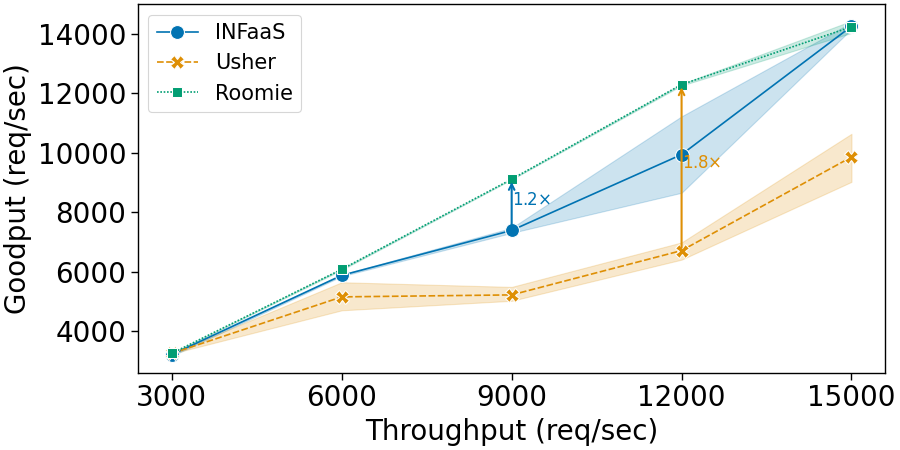
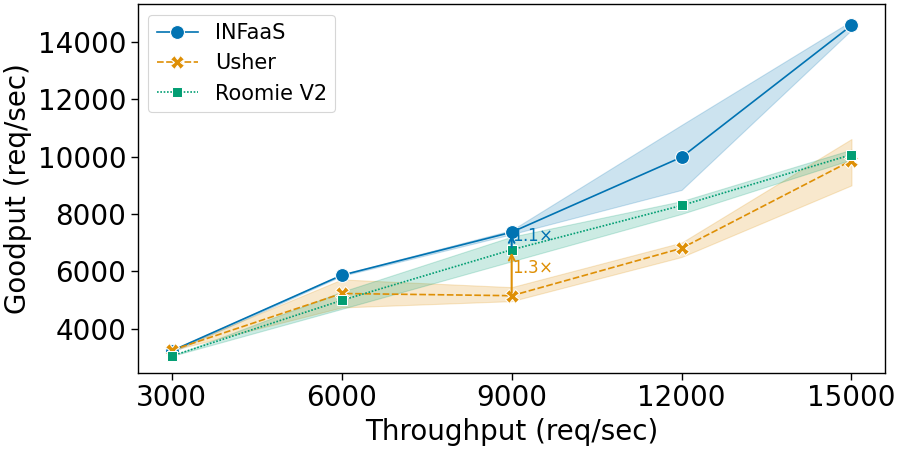
Updated figures

diff --git a/chapters/roomie/sections/evaluation.tex b/chapters/roomie/sections/evaluation.tex
@@ -56,7 +56,45 @@
 	\label{tab:serve_config}
 \end{table}
 
-\paragraph{Datasets.} We evaluated our system and baselines using synthetic and real workloads. For the real workload, we used Twitter's public traces from 2020~\cite{twitterStreamTrace2020} as was done in the state-of-the-arts. The trace is representative of the workloads that an inference service system would expect to see, since tweets are likely to be run through an inference model before being published~\cite{francisco2021infaas,ahmad2024proteus}. Since these traces are collected and aggregated at the granularity of seconds, we use a Poisson process to determine query arrival times within each second and use the Zipf distribution to allocate queries between models as in previous work~\cite{ahmad2024proteus,francisco2021infaas}. For synthetic data, we use a Gaussian process to determine the average number of requests per second, which we distribute in the same way as for the real workload.
+\paragraph{Datasets.} We evaluated our system and baseline methods using both synthetic and real-world workloads. For the real workload, we adopt the Twitter trace 2020 dataset~\cite{twitterStreamTrace2020}, as it is particularly suitable for modeling inference services, as tweets are commonly subjected to deep neural network (DNN) processing before publication~\cite{francisco2021infaas,ahmad2024proteus}. Since the trace is aggregated at a coarse temporal granularity of one second, we apply a Poisson process to model intra-second arrival times and use a Zipf distribution to distribute queries among models, in line with established methodology~\cite{francisco2021infaas,ahmad2024proteus}.
+For synthetic workloads, we generated average request rates per second using a Gaussian process and applied the same Zipf-based model allocation. To ensure our evaluation captures a broad spectrum of inference behavior, we selected a diverse and representative set of deep neural network (DNN) models. These include both high-performance classification architectures and widely adopted object detection frameworks, enabling us to rigorously assess system behavior under varied computational and latency profiles. The full list of models is summarized in~\Cref{tab:dnn-models}, reflecting the breadth and relevance of our evaluation design.
+
+\begin{table}[h]
+	\centering \caption{Categorization of Deep Neural Network Models Used in Evaluation} \label{tab:dnn-models}
+	\begin{tabular}{p{4cm}p{6cm}}
+		\hline
+		\textbf{Category} & \textbf{Models}
+		\\ \hline
+		Classification Models &
+		\texttt{vgg19},
+		\texttt{alexnet},
+		\texttt{maxvit\_t},
+		\texttt{resnet152},
+		\texttt{googlenet},
+		\texttt{densenet201},
+		\texttt{squeezenet1\_1},
+		\texttt{mobilenet\_v3\_large},
+		\texttt{shufflenet\_v2\_x2\_0},
+		\texttt{inception\_v3},
+		\texttt{wide\_resnet101\_2},
+		\texttt{resnext101\_32x8d},
+		\texttt{efficientnet\_v2\_l},
+		\texttt{convnext\_large}
+		\\ \hline
+		Object Detection Models &
+		\texttt{ssd300\_vgg16},
+		\texttt{fcos\_resnet50\_fpn},
+		\texttt{retinanet\_resnet50\_fpn\_v2},
+		\texttt{fasterrcnn\_resnet50\_fpn\_v2},
+		\texttt{ssdlite320\_mobilenet\_v3\_large}
+		\\ \hline 
+	\end{tabular}
+\end{table}
+
+% We evaluated our system and baselines using synthetic and real workloads. For the real workload, we used Twitter's public traces from 2020~\cite{twitterStreamTrace2020} as was done in the state-of-the-arts. The trace is representative of the workloads that an inference service system would expect to see, since tweets are likely to be run through an inference model before being published~\cite{francisco2021infaas,ahmad2024proteus}. Since these traces are collected and aggregated at the granularity of seconds, we use a Poisson process to determine query arrival times within each second and use the Zipf distribution to allocate queries between models as in previous work~\cite{ahmad2024proteus,francisco2021infaas}. For synthetic data, we use a Gaussian process to determine the average number of requests per second, which we distribute in the same way as for the real workload.
+
+
+% We evaluated our system and baselines using synthetic and real workloads. For the real workload, we used Twitter's public traces from 2020~\cite{twitterStreamTrace2020} as was done in the state-of-the-arts. The trace is representative of the workloads that an inference service system would expect to see, since tweets are likely to be run through an inference model before being published~\cite{francisco2021infaas,ahmad2024proteus}. Since these traces are collected and aggregated at the granularity of seconds, we use a Poisson process to determine query arrival times within each second and use the Zipf distribution to allocate queries between models as in previous work~\cite{ahmad2024proteus,francisco2021infaas}. For synthetic data, we use a Gaussian process to determine the average number of requests per second, which we distribute in the same way as for the real workload. About the models we used for our evaluations are: alexnet, squeezenet1_1, mobilenet_v3_large, shufflenet_v2_x2_0, googlenet, vgg19, inception_v3, wide_resnet101_2, resnext101_32x8d, resnet152, maxvit_t, densenet201, efficientnet_v2_l, convnext_large, fcos_resnet50_fpn, retinanet_resnet50_fpn_v2, fasterrcnn_resnet50_fpn_v2, ssd300_vgg16, ssdlite320_mobilenet_v3_large.
 
 
 \paragraph{Evaluation Metrics.} To evaluate the effectiveness of each DNN deployment strategy, the assessment focused on four key performance indicators. Response time measured how quickly the models delivered results, which is a critical indicator of real-time performance. The processing rate indicated the percentage of requests successfully processed, highlighting the reliability of the system for different workloads. Throughput measured the number of requests processed in a given time frame, providing insight into overall capacity and scalability. Finally, GPU utilization monitored the degree of hardware resource usage during model execution.
@@ -64,112 +102,112 @@
 
 \subsection{Performance Evaluation of Cloud-Based GPU Cluster Solutions}
 
-To assess the effectiveness of our proposed deployment strategy, we conducted a comprehensive evaluation using a cloud-based GPU cluster comprising 12 GPUs and a suite of 19 deep neural network (DNN) models, as detailed in Table X. The experiments were performed using two distinct datasets: real-world Twitter data and synthetically generated data.  These synthetic workloads were constructed to mimic real-world traffic patterns while allowing precise manipulation of query rates. This enabled a more granular analysis of system behavior under stress. These datasets were used to simulate varying workload intensities, beginning with low traffic levels that all models could handle and gradually increasing until system saturation was observed.
+To assess the effectiveness of our proposed deployment strategy, we conducted a comprehensive evaluation using a cloud-based GPU cluster comprising 12$\times$ GPUs and all deep neural network (DNN) models detailed in~\Cref{tab:dnn-models}. The experiments were performed using two distinct datasets: real-world Twitter data and synthetically generated data. These synthetic workloads were constructed to mimic real-world traffic patterns while allowing precise manipulation of query rates. This enabled a more granular analysis of system behavior under stress. These datasets were used to simulate varying workload intensities, beginning with low traffic levels that all models could handle and gradually increasing until system saturation was observed.
 
 \paragraph{Evaluation on Twitter dataset.}
 
 \begin{figure*}
-	\begin{minipage}[t]{.24\textwidth}
+	\begin{minipage}[t]{.24\linewidth}
 		\centering
-		\includegraphics[width=\linewidth]{chapters/roomie/images/NvidiaA100/twitter-all-models/response_time_line.png}
+		\includegraphics[width=\linewidth]{chapters/roomie/images/NvidiaA100/twitter-all-models/response_time.pdf}
 		\subcaption{Response time.}
 	\end{minipage}
 	\hfill
-	\begin{minipage}[t]{.24\textwidth}
+	\begin{minipage}[t]{.24\linewidth}
 		\centering
-		\includegraphics[width=\textwidth]{chapters/roomie/images/NvidiaA100/twitter-all-models/goodput_line.png}
-		\subcaption{Goodput.}
-	\end{minipage}
-	\hfill
-	\begin{minipage}[t]{.24\textwidth}
-		\centering
-		\includegraphics[width=\linewidth]{chapters/roomie/images/NvidiaA100/twitter-all-models/normalized_line.png}
+		\includegraphics[width=\linewidth]{chapters/roomie/images/NvidiaA100/twitter-all-models/normalized.pdf}
 		\subcaption{Processing rate.}
 	\end{minipage}
 	\hfill
-	\begin{minipage}[t]{.24\textwidth}
+	\begin{minipage}[t]{.24\linewidth}
 		\centering
-		\includegraphics[width=\textwidth]{chapters/roomie/images/NvidiaA100/twitter-all-models/gpu_utilization.png}
+		\includegraphics[width=\linewidth]{chapters/roomie/images/NvidiaA100/twitter-all-models/goodput.pdf}
+		\subcaption{Goodput.}
+	\end{minipage}
+	\hfill
+	\begin{minipage}[t]{.24\linewidth}
+		\centering
+		\includegraphics[width=\linewidth]{chapters/roomie/images/NvidiaA100/twitter-all-models/gpu_utilization.pdf}
 		\subcaption{GPU utilization.}
 	\end{minipage}
-	\caption{Roomie achieves up to 18× lower response time and over 97\% processing rate during cloud-based evaluation on the Twitter dataset, outperforming INFaaS and Usher under high workload conditions.}
+	\caption{\roomie achieves up to 17$\times$ faster response times while delivering similar processing rates in a cloud-based evaluation using the Twitter dataset, outperforming INFaaS and Usher under high workload conditions.}
 	\label{fig:NvidiaA100/twitter-all-models}
 	\vspace{-3mm}
 \end{figure*}
 
-\Cref{fig:NvidiaA100/twitter-all-models} shows the performance results obtained from the Twitter database. Under low workload conditions, all approaches showed comparable response times. However, as the workload increased, significant performance disparities emerged. Notably, Roomie achieved response times up to 18× faster than rival solutions and maintained a processing rate above 97\%. In contrast, Usher's strategy of co-locating large models with lightweight models failed to deliver satisfactory performance under high load, resulting in increased latency and reduced goodput. INFaaS, which scales DNNs on workers already hosting a copy, showed moderate goodput performance. However, this approach is agnostic to model interference, leading to latency increases of up to 18× and a decline in processing rate.
+\Cref{fig:NvidiaA100/twitter-all-models} shows the performance results obtained from the Twitter database. Under low workload conditions, all approaches showed comparable response times. However, as the workload increased, significant performance disparities emerged. Notably, Roomie achieved response times up to 17× faster than rival solutions and maintained a processing rate above 97\%. In contrast, Usher's strategy of co-locating large models with lightweight models failed to deliver satisfactory performance under high load, resulting in increased latency and reduced goodput. INFaaS, which scales DNNs on workers already hosting a copy, showed moderate goodput performance. However, this approach is agnostic to model interference, leading to latency increases of up to 17× and a decline in processing rate.
 
-Interestingly, despite low GPU utilization across all approaches, we observe a significant increase in response time as workload intensifies. This counterintuitive behavior can be attributed to the saturation of large models, which become unable to keep pace with incoming queries. As these models reach their computational limits, they begin to queue requests, leading to latency explosions—even though the GPU itself remains underutilized. Additionally, interference between colocated models can further degrade responsiveness, compounding delays without a corresponding rise in GPU activity. One potential mitigation strategy is to increase batch sizes, which can improve utilization by amortizing overhead across multiple queries. However, this approach introduces a trade-off: larger batches may inflate response times, making it unsuitable for latency-sensitive applications. These findings underscore the need for deployment strategies that go beyond raw utilization metrics and account for model saturation dynamics and cross-model interference.
+Interestingly, despite low GPU utilization across all approaches, we observe a significant increase in response time as workload intensifies. This counterintuitive behavior can be attributed to the saturation of large models, which become unable to keep pace with incoming queries. As these models reach their computational limits, they begin to queue requests, leading to latency explosions—even though the GPU itself remains underutilized. Additionally, interference between co-located models can further degrade responsiveness, compounding delays without a corresponding rise in GPU activity. One potential mitigation strategy is to increase batch sizes, which can improve utilization by amortizing overhead across multiple queries. However, this approach introduces a trade-off: larger batches may inflate response times, making it unsuitable for latency-sensitive applications. These findings underscore the need for deployment strategies that go beyond raw utilization metrics and account for model saturation dynamics and cross-model interference.
 
 
 \paragraph{Evaluation on synthetic dataset.}
 
 \begin{figure*}
-	\begin{minipage}[t]{.24\textwidth}
+	\begin{minipage}[t]{.24\linewidth}
 		\centering
-		\includegraphics[width=\linewidth]{chapters/roomie/images/NvidiaA100/synthetic-all-models/response_time_line.png}
+		\includegraphics[width=\linewidth]{chapters/roomie/images/NvidiaA100/synthetic-all-models/response_time.pdf}
 		\subcaption{Response time.}
 		\label{fig:NvidiaA100/synthetic-all-models/response-time}
 	\end{minipage}
 	\hfill
-	\begin{minipage}[t]{.24\textwidth}
+	\begin{minipage}[t]{.24\linewidth}
 		\centering
-		\includegraphics[width=\textwidth]{chapters/roomie/images/NvidiaA100/synthetic-all-models/goodput_line.png}
-		\subcaption{Goodput.}
-	\end{minipage}
-	\hfill
-	\begin{minipage}[t]{.24\textwidth}
-		\centering
-		\includegraphics[width=\linewidth]{chapters/roomie/images/NvidiaA100/synthetic-all-models/normalized_line.png}
+		\includegraphics[width=\linewidth]{chapters/roomie/images/NvidiaA100/synthetic-all-models/normalized.pdf}
 		\subcaption{Processing rate.}
 	\end{minipage}
 	\hfill
-	\begin{minipage}[t]{.24\textwidth}
+	\begin{minipage}[t]{.24\linewidth}
 		\centering
-		\includegraphics[width=\textwidth]{chapters/roomie/images/NvidiaA100/synthetic-all-models/gpu_utilization.png}
+		\includegraphics[width=\linewidth]{chapters/roomie/images/NvidiaA100/synthetic-all-models/goodput.pdf}
+		\subcaption{Goodput.}
+	\end{minipage}
+	\hfill
+	\begin{minipage}[t]{.24\linewidth}
+		\centering
+		\includegraphics[width=\linewidth]{chapters/roomie/images/NvidiaA100/synthetic-all-models/gpu_utilization.pdf}
 		\subcaption{GPU utilization.}
 	\end{minipage}
-	\caption{In cloud-based evaluation using synthetic workloads, Roomie yields 7.6× faster response time and highest throughput, confirming its deployment efficiency in controlled stress scenarios.}
+	\caption{In cloud-based evaluation using synthetic workloads, Roomie yields 9.2× faster response time and higher processing rate, confirming its deployment efficiency in controlled stress scenarios.}
 	\label{fig:NvidiaA100/synthetic-all-models}
 	\vspace{-3mm}
 \end{figure*}
 
 
 \Cref{fig:NvidiaA100/synthetic-all-models/response-time} illustrates the results of the evaluation conducted with a synthetic dataset designed to emulate diverse and controlled workload scenarios.\\
-The performance trends observed with the synthetic dataset closely mirrored those seen with the Twitter data. Roomie consistently outperformed other deployment strategies, achieving a 7.6× reduction in response time and superior throughput and processing rates. These gains are attributed to Roomie's intelligent model deployment and colocation strategy, which minimizes interference and maximizes resource efficiency.
+The performance trends observed with the synthetic dataset closely mirrored those seen with the Twitter data. Roomie consistently outperformed other deployment strategies, achieving a 9.2× reduction in response time and superior throughput and processing rates. These gains are attributed to Roomie's intelligent model deployment and colocation strategy, which minimizes interference and maximizes resource efficiency.
 
-Overall, across both datasets, Roomie demonstrated robust performance under varying workload conditions. It consistently achieved lower response times—up to 18× faster—and higher throughput than competing approaches, validating its effectiveness in cloud-based GPU environments.
+Overall, across both datasets, Roomie demonstrated robust performance under varying workload conditions. It consistently achieved lower response times—up to 17× faster—and higher throughput than competing approaches, validating its effectiveness in cloud-based GPU environments.
 
 
 
 \subsection{Performance Evaluation on Edge Devices Using Jetson Xavier GPUs}
 
-To further validate our approach, we conducted a second set of experiments using a cluster of 12 Jetson Xavier GPUs, representative of resource-constrained edge computing environments. As in the cloud-based evaluation, we deployed 12 models and tested performance using both Twitter and synthetic datasets, gradually increasing workload intensity.
+To further validate our approach, we conducted a second set of experiments using a cluster of 12 Jetson Xavier GPUs, representative of resource-constrained edge computing environments. As in the cloud-based evaluation, we deployed 12 models (from~\Cref{tab:dnn-models}) and tested performance using Twitter data and synthetic data, gradually increasing the workload intensity.
 
 \paragraph{Evaluation on twitter dataset.}
 
 \begin{figure*}
-	\begin{minipage}[t]{.24\textwidth}
+	\begin{minipage}[t]{.24\linewidth}
 		\centering
-		\includegraphics[width=\linewidth]{chapters/roomie/images/JetsonNano/twitter-all-models/response_time_line.png}
+		\includegraphics[width=\linewidth]{chapters/roomie/images/JetsonNano/twitter-all-models/response_time.pdf}
 		\subcaption{Response time.}
 	\end{minipage}
 	\hfill
-	\begin{minipage}[t]{.24\textwidth}
+	\begin{minipage}[t]{.24\linewidth}
 		\centering
-		\includegraphics[width=\textwidth]{chapters/roomie/images/JetsonNano/twitter-all-models/goodput_line.png}
-		\subcaption{Goodput.}
-	\end{minipage}
-	\hfill
-	\begin{minipage}[t]{.24\textwidth}
-		\centering
-		\includegraphics[width=\linewidth]{chapters/roomie/images/JetsonNano/twitter-all-models/normalized_line.png}
+		\includegraphics[width=\linewidth]{chapters/roomie/images/JetsonNano/twitter-all-models/normalized.pdf}
 		\subcaption{Processing rate.}
 	\end{minipage}
 	\hfill
-	\begin{minipage}[t]{.24\textwidth}
+	\begin{minipage}[t]{.24\linewidth}
 		\centering
-		\includegraphics[width=\textwidth]{chapters/roomie/images/JetsonNano/twitter-all-models/gpu_utilization.png}
+		\includegraphics[width=\linewidth]{chapters/roomie/images/JetsonNano/twitter-all-models/goodput.pdf}
+		\subcaption{Goodput.}
+	\end{minipage}
+	\hfill
+	\begin{minipage}[t]{.24\linewidth}
+		\centering
+		\includegraphics[width=\linewidth]{chapters/roomie/images/JetsonNano/twitter-all-models/gpu_utilization.png}
 		\subcaption{GPU utilization.}
 	\end{minipage}
 	\caption{Edge-based evaluation on the Twitter dataset shows Roomie delivering 8.3× lower latency and superior throughput on Jetson Xavier GPUs, validating its proactive colocation strategy under constrained resources.}
@@ -184,27 +222,27 @@ Edge environments impose more severe constraints on model deployment due to limi
 \paragraph{Evaluation on synthetic dataset.}
 
 \begin{figure*}
-	\begin{minipage}[t]{.24\textwidth}
+	\begin{minipage}[t]{.24\linewidth}
 		\centering
-		\includegraphics[width=\linewidth]{chapters/roomie/images/JetsonNano/synthetic-all-models/response_time_line.png}
+		\includegraphics[width=\linewidth]{chapters/roomie/images/JetsonNano/synthetic-all-models/response_time.pdf}
 		\subcaption{Response time.}
 	\end{minipage}
 	\hfill
-	\begin{minipage}[t]{.24\textwidth}
+	\begin{minipage}[t]{.24\linewidth}
 		\centering
-		\includegraphics[width=\textwidth]{chapters/roomie/images/JetsonNano/synthetic-all-models/goodput_line.png}
-		\subcaption{Goodput.}
-	\end{minipage}
-	\hfill
-	\begin{minipage}[t]{.24\textwidth}
-		\centering
-		\includegraphics[width=\linewidth]{chapters/roomie/images/JetsonNano/synthetic-all-models/normalized_line.png}
+		\includegraphics[width=\linewidth]{chapters/roomie/images/JetsonNano/synthetic-all-models/normalized.pdf}
 		\subcaption{Processing rate.}
 	\end{minipage}
 	\hfill
-	\begin{minipage}[t]{.24\textwidth}
+	\begin{minipage}[t]{.24\linewidth}
 		\centering
-		\includegraphics[width=\textwidth]{chapters/roomie/images/JetsonNano/synthetic-all-models/gpu_utilization.png}
+		\includegraphics[width=\linewidth]{chapters/roomie/images/JetsonNano/synthetic-all-models/goodput.pdf}
+		\subcaption{Goodput.}
+	\end{minipage}
+	\hfill
+	\begin{minipage}[t]{.24\linewidth}
+		\centering
+		\includegraphics[width=\linewidth]{chapters/roomie/images/JetsonNano/synthetic-all-models/gpu_utilization.png}
 		\subcaption{GPU utilization.}
 	\end{minipage}
 	\caption{Under synthetic edge evaluation, Roomie sustains 9× faster response time and 1.5× higher throughput, demonstrating robust performance in resource-limited environments.}

diff --git a/chapters/roomie/sections/motivation copy.tex b/chapters/roomie/sections/motivation copy.tex
@@ -1,0 +1,86 @@
+\section{Motivation and Challenges}\label{sec:motivation}
+
+
+In this section, we will discuss the importance of taking model interference
+into account when inference serving, as demonstrated by the suboptimal
+performance of existing approaches.
+
+
+\subsection{Motivation}
+
+\begin{figure}
+	\centering
+	\begin{subfigure}[t]{0.45\textwidth}
+		\centering
+		\includegraphics[width=\textwidth]{chapters/roomie/images/Throughput_models_in_isolation.pdf}
+		\caption{Throughput when the model operates in isolation, without any interference.}
+		\label{fig:isolation}
+	\end{subfigure}
+	\hfill
+	\begin{subfigure}[t]{0.45\textwidth}
+		\centering
+		\includegraphics[width=\textwidth]{chapters/roomie/images/Throughput_models_in_combinaison.pdf}
+		\caption{An alternative to co-locating three models on two GPUs, offering a better compromise than Usher~\cite{shubha2024usher}.}
+		\label{fig:colocation}
+	\end{subfigure}
+	\label{fig:three graphs}
+\end{figure}
+
+We conducted an experimental study evaluating the performance of three inference models (\textit{Alexnet}, \textit{Googlenet}, and \textit{SSD}) on two Jetson Xavier. The performance of each DNN when operating in isolation is shown in~\Cref{fig:isolation}. The main objective was to identify the best colocation configuration among all possible combinations. Our results showed that the approach proposed by Usher, which consists of placing \textit{Alexnet} with \textit{SSD}, is not necessarily the best option. Indeed, another possible configuration, that of \textit{Googlenet} with \textit{SSD}, offers a better compromise in terms of performance (see~\Cref{fig:colocation}).
+We have found that Usher's erroneous choice is linked to the way in which model compatibility is assessed. Simply classifying models according to their computing or memory capacity does not provide a detailed overview of their performance. Instead, a more refined approach that takes into account the resources demanded by each model over time is required.
+
+Indeed, the actual instructions executed by a model to complete inference are kernels. Therefore, we should consider the resource occupancy of kernels over time rather than the occupancy of the DNN itself, which masks complexity. When several kernels from different DNNs require more resources than the GPU can provide, interference results, which has a direct impact on the initial execution time of each kernel.
+By aligning kernels from different DNNs, we can determine and measure which kernels are interfering, and assess the associated drop in performance. With this information, we can proactively determine the best combination of models when colocation is required.
+
+Several technologies have been developed for high performance computing tasks on GPUs, such as CUDA for NVIDIA and OpenCL for AMD devices. A CUDA kernel is a program that runs on a NVIDIA GPU, executing a specific task in parallel across thousands of threads. A CUDA stream is a sequence of kernels that are launched and executed on a NVIDIA GPU in serialized manner. When a kernel is launched without précising the stream this is executed in the default stream and will prevent any other streams from executing which can lead to GPU underutilization. Multiple streams can execute concurrently, allowing for better utilization of GPU resources and improved overall performance. To benefit from parallel kernel executions all streams should be created in the same CUDA context by simply using the process as each process will have its own CUDA context and will execute on the GPU in time sharing manner.
+
+A DNN model is made up of several kernels which are executed in serialized manner on the GPU. In fact, each layer of a neural network model can execute multiple kernels. For better utilization of the GPU multiple models can run inside the same GPU where each will use it own CUDA stream for parallel kernel execution. In fact, kernels can be characterized by there duration and occupancy in the GPU during execution. By using profiling tools either Nsight-System or Torch profiler and through the kernel launch configure we can determine the theoretical occupancy of the GPU which represent the maximum utilization of the GPU a kernel can reach during its execution. Experiment conducted with four DNN shows that kernels do not use all available resource during there execution~\Cref{fig:theoritical_achieved_occupancy}. This demonstrates the benefits of running multiple models on the same GPU to maximize resource utilization.
+
+
+\subsection{Failure to define an effective DNN colocation strategy}
+
+\begin{figure}[t!]
+	\centering
+	\includegraphics[width=\linewidth]{chapters/roomie/images/aggregate_performance_drop_model.pdf}
+	\caption{Deploying a large model with a lighter model does not necessarily guarantee better performance. Aggregated throughput instead with a table.}
+	\label{fig:performance_drop_model}
+\end{figure}
+
+\begin{table}
+	\centering
+	\begin{tabular}{p{.2\textwidth}p{.2\textwidth}p{.2\textwidth}p{.2\textwidth}}
+		\toprule
+		\textbf{Model} & \textbf{Max memory allocated (\%)} & \textbf{Theoretical occupancy (\%)} & \textbf{Achieved occupancy (\%)} \\
+		\midrule
+		Squeezenet     & 1.69                               & 73.96                               & 54.58                            \\
+		Alexnet        & 1.35                               & 73.36                               & 54.97                            \\
+		Fasterrcnn     & 53.92                              & 78.1                                & 50.53                            \\
+		Fcos resnet    & 36.3                               & 80.84                               & 42.85                            \\
+		\bottomrule
+	\end{tabular}
+	\caption{Occupancy and maximum memory allocated during inference on a Jetson Xavier.}
+\end{table}
+
+
+Many inference systems are designed to handle multiple inference requests. Each time an inference request arrives, the system chooses the requested model and decides where to deploy the model to meet service level objectives (SLOs), usually by reference to its offline profiled performance on each GPU device. Many of these systems also offer an automatic scaling mechanism that adapts the number of instances to meet the demands of varying workloads. When a request arrives, the system either instances a new resource on which to deploy the model for inference, or co-locates the model with others. When models are co-located on the same workers (GPU), either to maximize resource utilization or simply as a constraint, since adding additional resources is costly, this would necessarily lead to a drop in performance for the models impacted. Indeed, when models are deployed in the same resource, their performance drops relative to their performance when isolated, due to the race for resources during inference. As a result, it is a real challenge to measure the performance drop for each model before each choice of colocation to maximize their performance.
+
+A solution that might seem very intuitive would be to choose the GPU device with the most free resources (memory in general) to hold the new instance. However, this does not take into account the interference that each model will have on the other, which will ultimately lead to performance degradation. Furthermore, memory plays a minor role when it comes to inference. In fact, models consume less memory during inference, since optimizer states, gradients, intermediate values and, in general, backward-pass data are not stored.
+
+A good approach would be to consider the kernels of each model, since it is these kernels that are the actual tasks that will be executed on the GPU in sequential order during inference. For instance, Usher has tried to use kernels to develop an estimator that calculates the computation and memory required by a model on a GPU by analyzing its low-level GPU kernels. However, the interference that kernels of different models may have with each other during execution is not addressed. Furthermore, the problem is that they try to couple models in a simplistic way by looking at the memory a model will use versus the number of GPU computations that will be occupied. Consider a simple scenario with two Jetson Xavier GPUs and three models, Alexnet, Squeezenet which are classifiers and FCOS (Fully Convolutional One-Stage Object Detection), object detection algorithm combined with ResNet (Residual Network). Usher chooses a configuration that gives sub-optimal performance by the way it groups the models. Whereas a good choice would be to deploy Alexnet and Squeezenet together \Cref{fig:performance_drop_model}.
+
+The problem, when it comes to determining the interference between models, is that you have to look at the kernel that each model will run during inference, not the model itself. In fact, however large the model may be (in terms of parameters, or memory), the only thing that really matters is the actual kernels it will execute, their orders and how each kernel will occupy GPU resources and for how long. Finally, the challenge is to measure the impact that kernels will have on each other's duration when running in parallel on different CUDA streams.
+
+\subsection{Challenges of considering CUDA Kernels}
+
+\begin{figure}[t!]
+	\centering
+	\includegraphics[width=\linewidth]{chapters/roomie/images/launch__occupancy_limit_percentage_batch_size64.pdf}
+	\caption{The distribution of the number of blocks used during inference in a Jetson Xavier shows that the kernels executed for each model have different limitations according to shared memory, registers or wraps.}
+	\label{fig:occupancy_limit_percentage}
+\end{figure}
+
+After considering the amount of memory used to store a model's parameters, all that matters is the series of kernels that will be executed in a serialized fashion on the GPU to complete an inference. Overall, a kernel can be characterized by the amount of resources it requires during execution, which will determine the total occupancy it can achieve, and by the time it takes to complete its task, which is the duration.
+
+While some has developed tools for inferring some of these parameters others simply use offline profiling. We have opted for offline profiling for several reasons: (1) the number of existing GPU types is relatively small and profiling these different types of models (classifiers, detection, natural language processing, etc.) across all these GPU types is faster, on the order of a few hours or, at worst, a few weeks. (2) We need to profile these models in total isolation, without taking into account the different colocation combinations. (3) Using artificial intelligence to predict all the configuration parameters of a kernel (occupancy, shared memory, registers, warps, etc.) on the basis of its layers alone is very difficult to implement. Usher has developed a model for predicting certain resources, notably memory, using only layer information (Conv, Dense, MaxPooling, etc.) used by frameworks such as Pytorch and Tensorflow. However, in our case, we need the kernels and their configurations, not just the amount of memory used and occupancy. What's more, for the execution of a layer, cuDNN, which is the library developed for the execution of most DNN operators, can execute, for the same type of layer, different kernels depending on the type of GPU, available resources and available technology such as cuDART~\yf{Must Play Twice}. For example, when executing a convolutional layer, the number of kernels launched can vary from 2 to 5.
+
+To effectively determine how kernels can interfere, we therefore need all the resources they need to run. In fact, each kernel requires a certain amount of shared memory, registers, etc. during execution. Consequently, kernels with fewer dependencies or different requirements, or with a combined demand below the GPU limit, can experience less interference, so that the impact during runtime is low. On the other hand, those with greater demand on the same resource, exceeding the maximum that can be allocated, will face greater interference and possibly longer runtime. In addition, depending on the kernel's configuration at runtime, it may be impossible for it to fully utilize all available GPU resources. As a result, other kernels may eventually have room to run in parallel with a certain drop in performance. However, many challenges arise in determining (1) how different kernels can interfere with each other, (2) how available resources can be shared between kernels waiting to be executed, (3) and which kernel of a model will interfere with that of other models running on the same GPU device. In the following sections, we explain in detail how we meet all these challenges.
